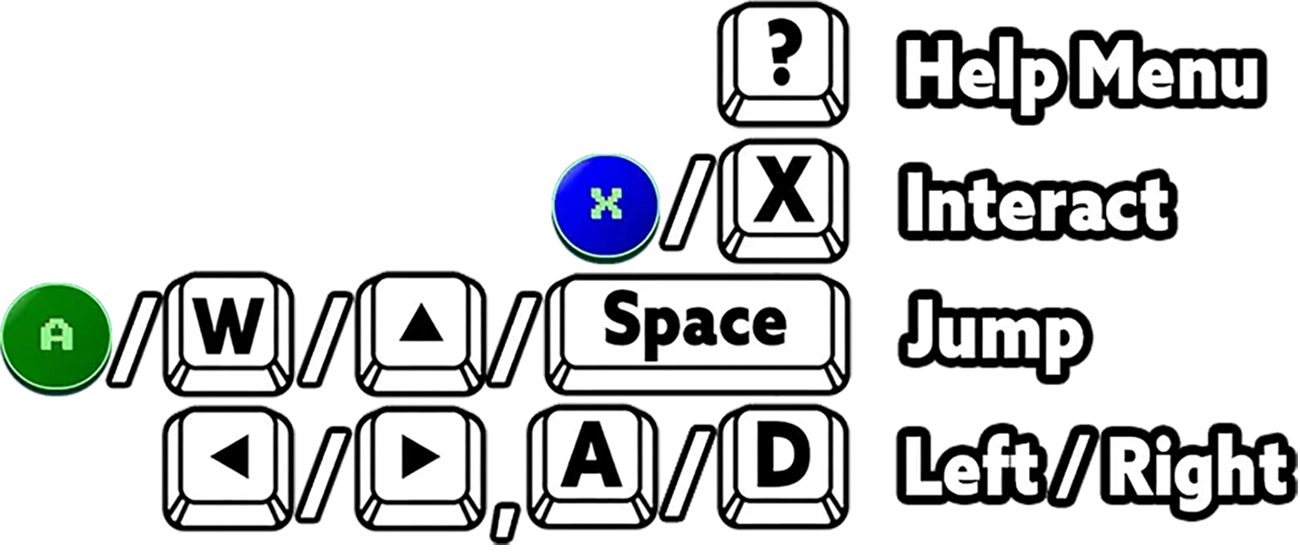
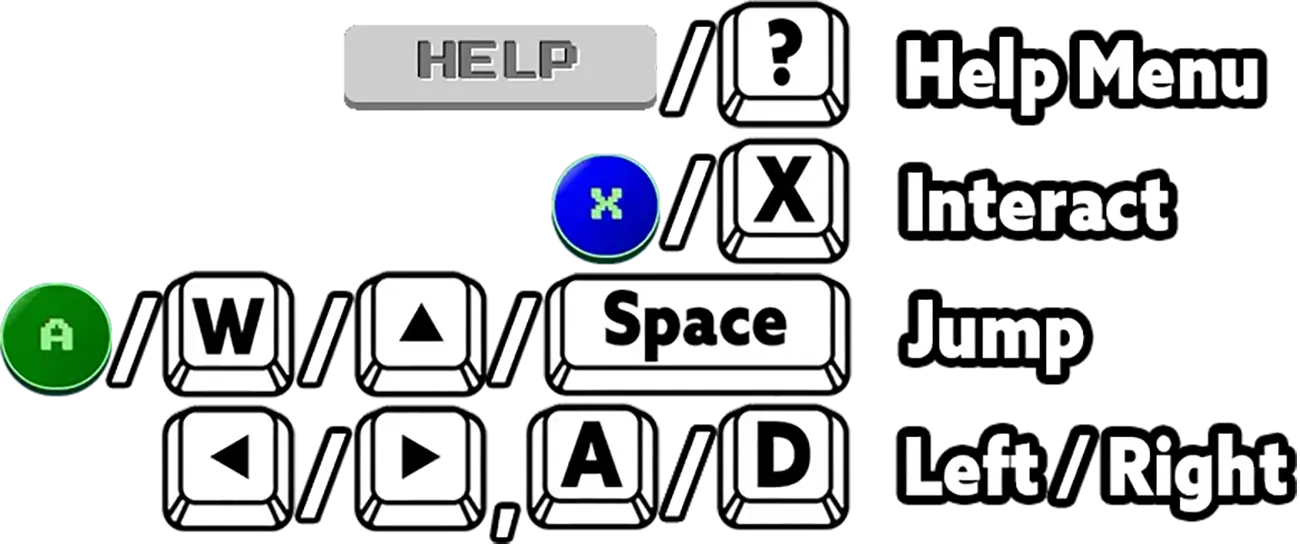
added help button to controls image

Changed region(s): [[0.2462, 0.0306, 0.5538, 0.2144], [0.5538, 0.8883, 0.5846, 0.9189], [0.3077, 0.8883, 0.3385, 0.9189]]

diff --git a/index.js b/index.js
@@ -408,8 +408,8 @@ BugPic.src = './img/Bug/bug2.webp'
 const BugTalkPic = new Image()   
 BugTalkPic.src = './img/Bug/bugTalkSprite.webp'
 
-// const spacebarPic = new Image()   
-// spacebarPic.src = './img/Sign/spacebar.webp'
+const spacebarPic = new Image()   
+spacebarPic.src = './img/Sign/spacebar.webp'
 
 const signMCTCPic = new Image()   
 signMCTCPic.src = './img/Sign/MCTC.webp'
@@ -664,7 +664,7 @@ buildingHGA = [ new BuildingHGA(buildingNull*2, canvas.height - HGA.height - (pl
 
 // -------------------------- ARROWS & SIGNS --------------------------
 arrowArray = [ new ARROW(1200, canvas.height - ArrowPic.height - 50, 250, 422, ArrowPic),
-            // new Sign({x: 2850, y: canvas.height - spacebarPic.height - 125, image: spacebarPic}),
+            new Sign({x: 7700, y: canvas.height - spacebarPic.height - 500, image: spacebarPic}),
         ] 
 signArray = [
             new Sign({x: 4700, y: canvas.height - BugTalkPic.height - 200, image: BugTalkPic}),
@@ -2559,6 +2559,7 @@ function death(){
 function hitSprite(){
     if(!canHurt){
         // player.currentSprite = player.sprites.run.left
+        player.currentSprite = player.sprites.hurt.right
         // player.currentCropWidth = player.sprites.run.cropWidth
         // player.width = player.sprites.run.width
         console.log('hit sprite');
